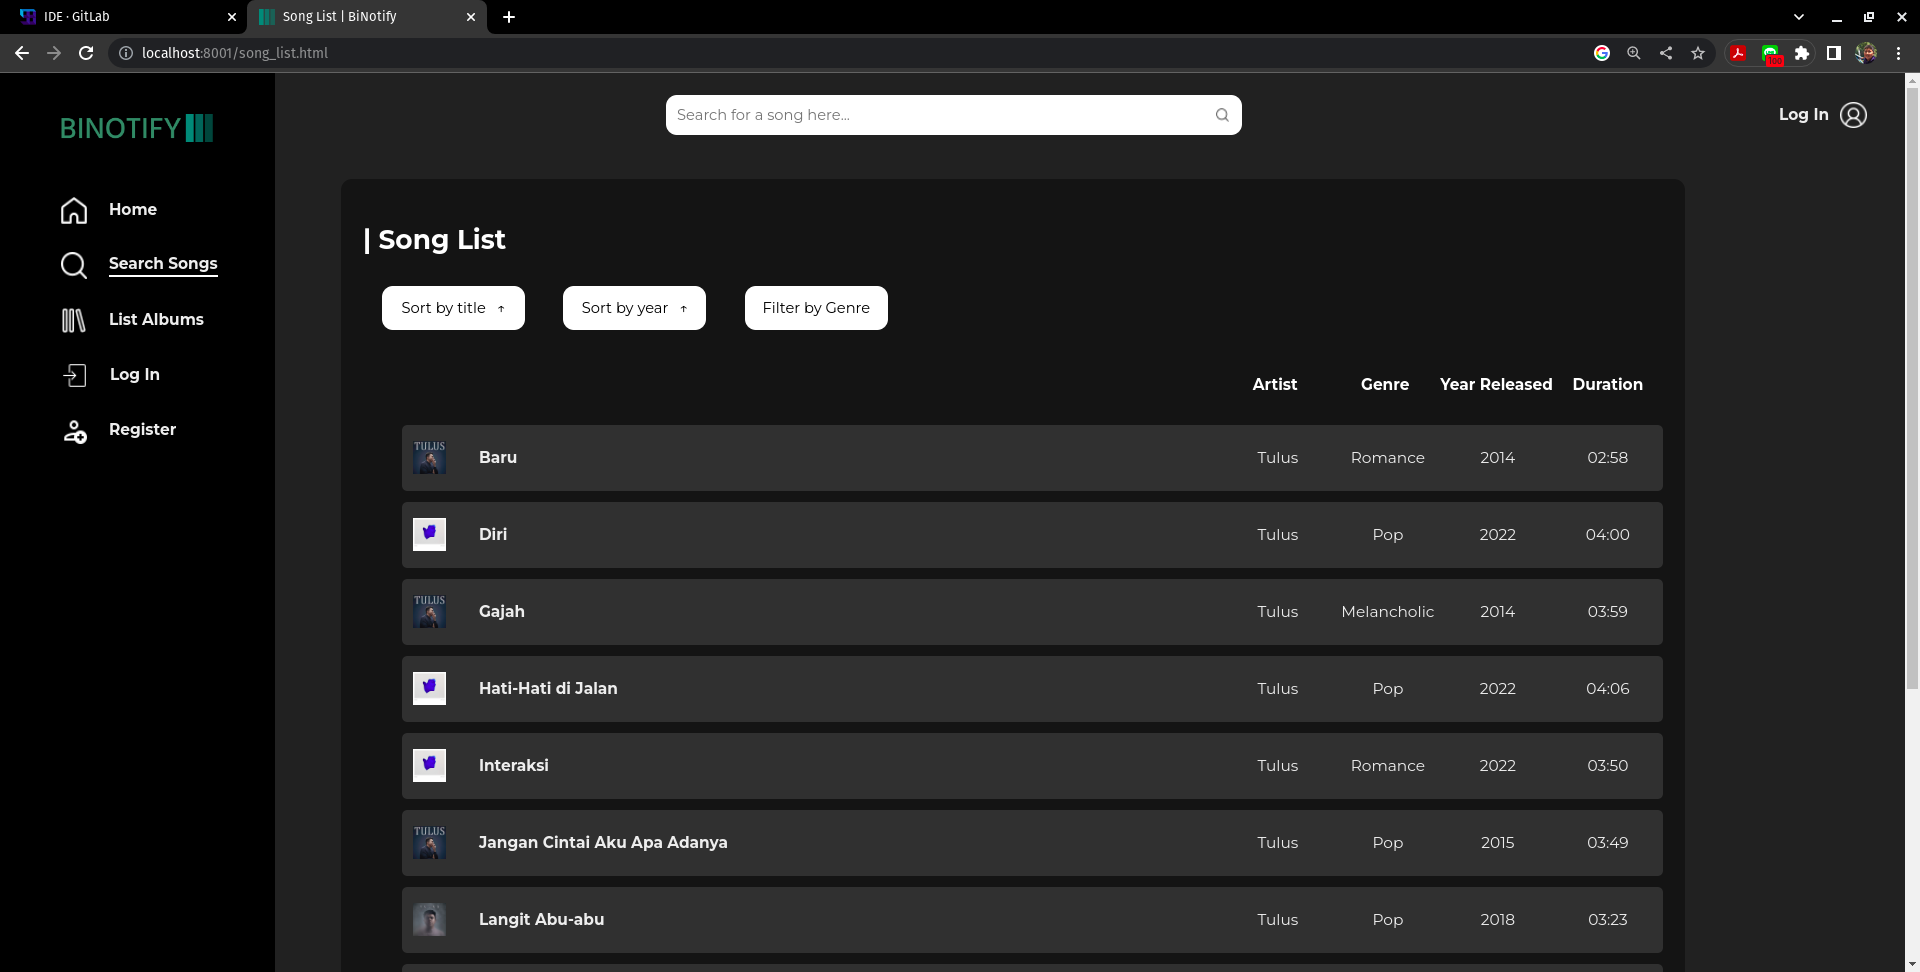
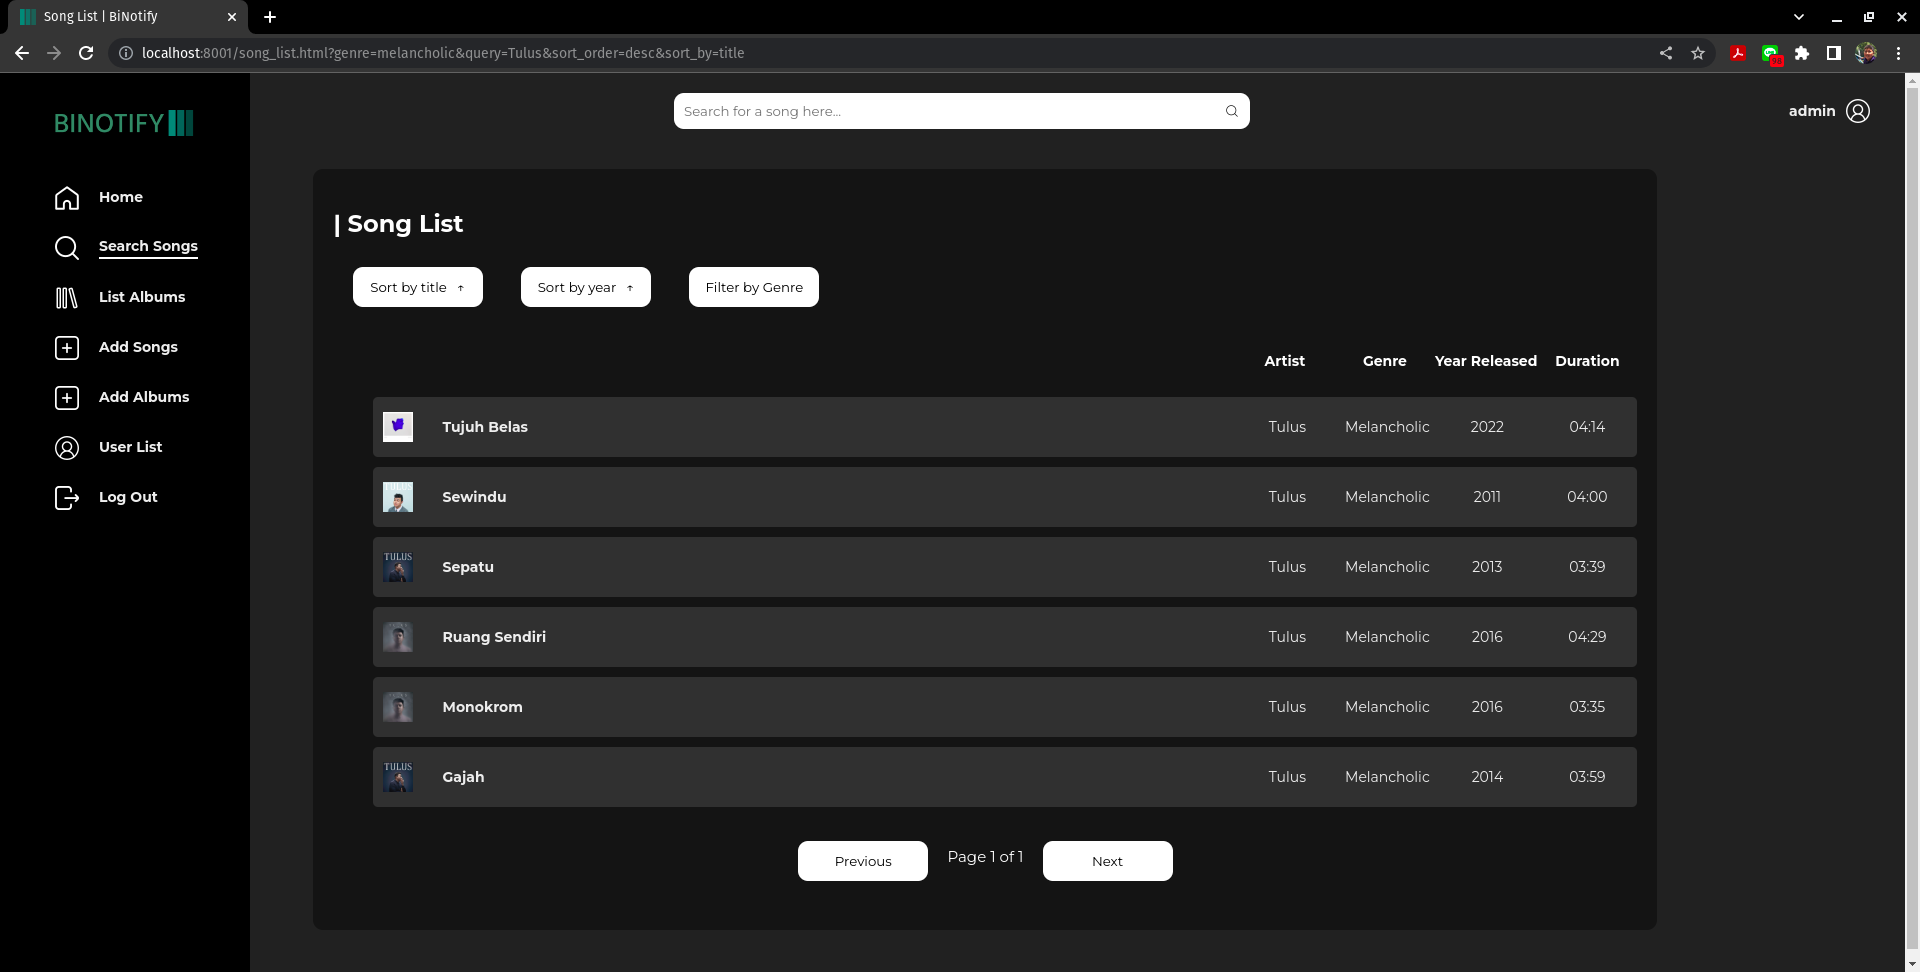
fix: update table count for pagination

diff --git a/src/api/songs/search.php b/src/api/songs/search.php
@@ -20,22 +20,7 @@
 
     $limit = 10;
 
-    $query = "SELECT COUNT(*) as `count` FROM `" . $_POST["table"] . "`";
-    
-    $data = $conn->query($query);
 
-    if ($conn->error){
-        http_response_code(500);
-        exit(json_encode(
-            [
-                "status" => 500,
-                "message" => "Internal server error",
-                "data" => $conn->error
-            ]
-        ));
-    }
-
-    $table_count = $data->fetch_array(MYSQLI_ASSOC)["count"];
 
     $lower_limit = ($page  - 1) * $limit;
 
@@ -46,10 +31,10 @@
     }
 
 
-    $query = "SELECT `" . $_POST["table"] ."_id`, `".  $duration_column. "`, `judul`, `penyanyi`, YEAR(`tanggal_terbit`) as `year`,`genre`,`image_path` 
+    $base = "SELECT `" . $_POST["table"] ."_id`, `".  $duration_column. "`, `judul`, `penyanyi`, YEAR(`tanggal_terbit`) as `year`,`genre`,`image_path` 
     FROM " . $_POST["table"];
 
-
+    $query = "";
 
     if ($_POST["query"] !== "") {
         $query .= " WHERE (`judul` LIKE ". "'%" . $_POST["query"] . "%' OR `penyanyi` LIKE ". "'%" 
@@ -69,7 +54,7 @@
         }
 
         if ($_POST["sort_by"] === "year"){
-            $sort_by = "`year`";
+            $sort_by = "YEAR(`tanggal_terbit`)";
         }
         $query .= " ORDER BY " . $sort_by . " " . $_POST["sort_order"];
     } else {
@@ -78,7 +63,7 @@
 
     $query .= " LIMIT $limit OFFSET $lower_limit;";
 
-    $data = $conn->query($query);
+    $data = $conn->query($base . $query);
 
     if ($conn->error){
         http_response_code(500);
@@ -104,11 +89,30 @@
         ));
     }
 
+
     $returned_data = [];
     
     while ($row = $data->fetch_assoc()){
         $returned_data[] = $row;
     }
+
+
+    $count_query = "SELECT COUNT(*) as `count` FROM `" . $_POST["table"] . "`" . $query;
+    
+    $data = $conn->query($count_query);
+
+    if ($conn->error){
+        http_response_code(500);
+        exit(json_encode(
+            [
+                "status" => 500,
+                "message" => "Internal server error",
+                "data" => $conn->error 
+            ]
+        ));
+    }
+
+    $table_count = $data->fetch_array(MYSQLI_ASSOC)["count"];
 
     http_response_code(200);
     exit(json_encode(
@@ -118,7 +122,7 @@
             "data" =>  json_encode(
                 [
                     "data_count" => $data_count,
-                    "page_total" => ceil($table_count/ $limit),
+                    "page_total" => ceil($table_count / $limit),
                     "page_number" => $page,
                     "rows" => $returned_data,
                     "table" => $_POST["table"]

diff --git a/README.md b/README.md
@@ -50,6 +50,8 @@ Apabila proses instalasi tidak berhasil karena _port_ yang digunakan sedang digu
 ![readme/home.png](readme/home.png)
 
 ### Halaman Daftar Lagu (_Search, Sort, dan Filter_)
+(Kasus melakukan pencarian pada lagu yang dinyanyikan Tulus dengan genre Melancholic diurutkan berdasarkan nama lagu secara menurun dari alfabet besar ke kecil)
+
 ![readme/search.png](readme/song_list.png)
 
 ### Halaman Daftar Album
@@ -112,5 +114,5 @@ Legenda NIM adalah sebagai berikut:
 - Halaman Detail Album: 13520043
 - Halaman Tambah Lagu: 13520043
 - Halaman Tambah Album: 13520043
-- Halaman Daftar User: 13520124
+- Halaman Daftar User: 13520117, 13520124
 
